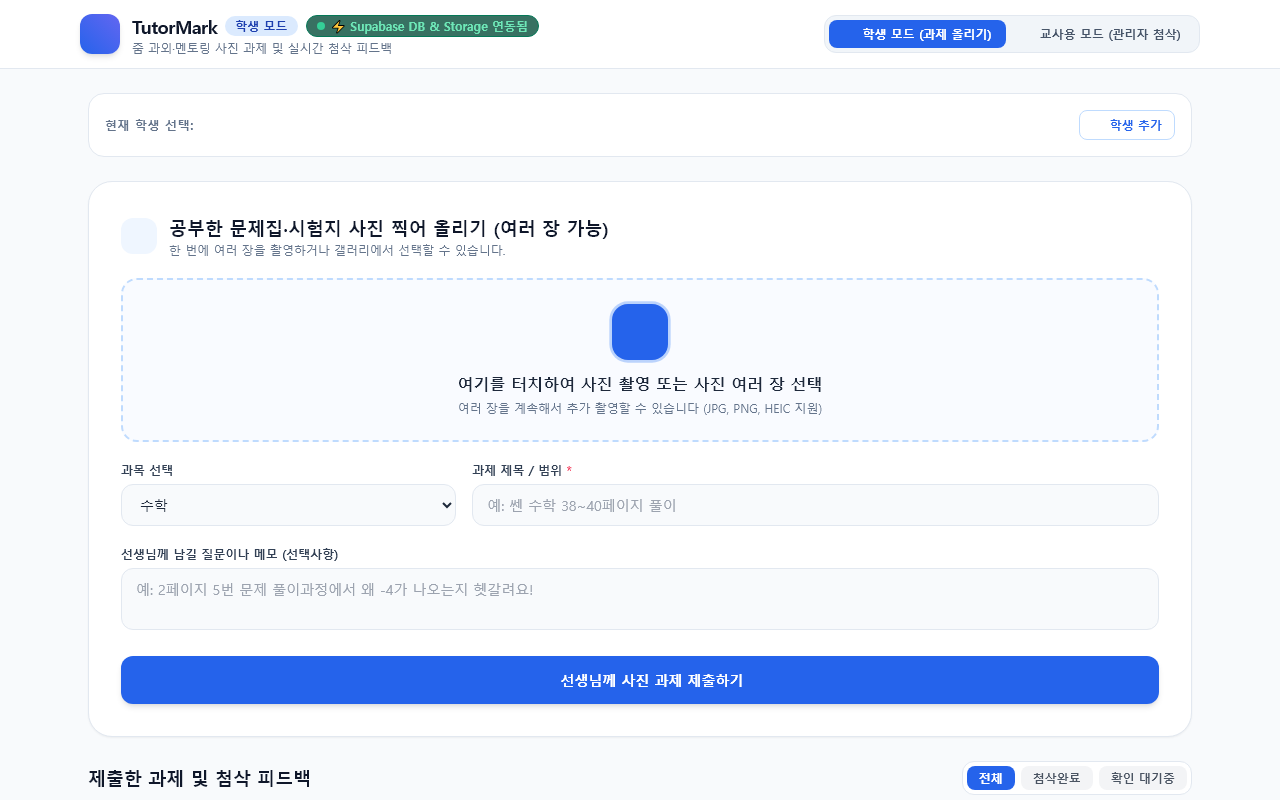
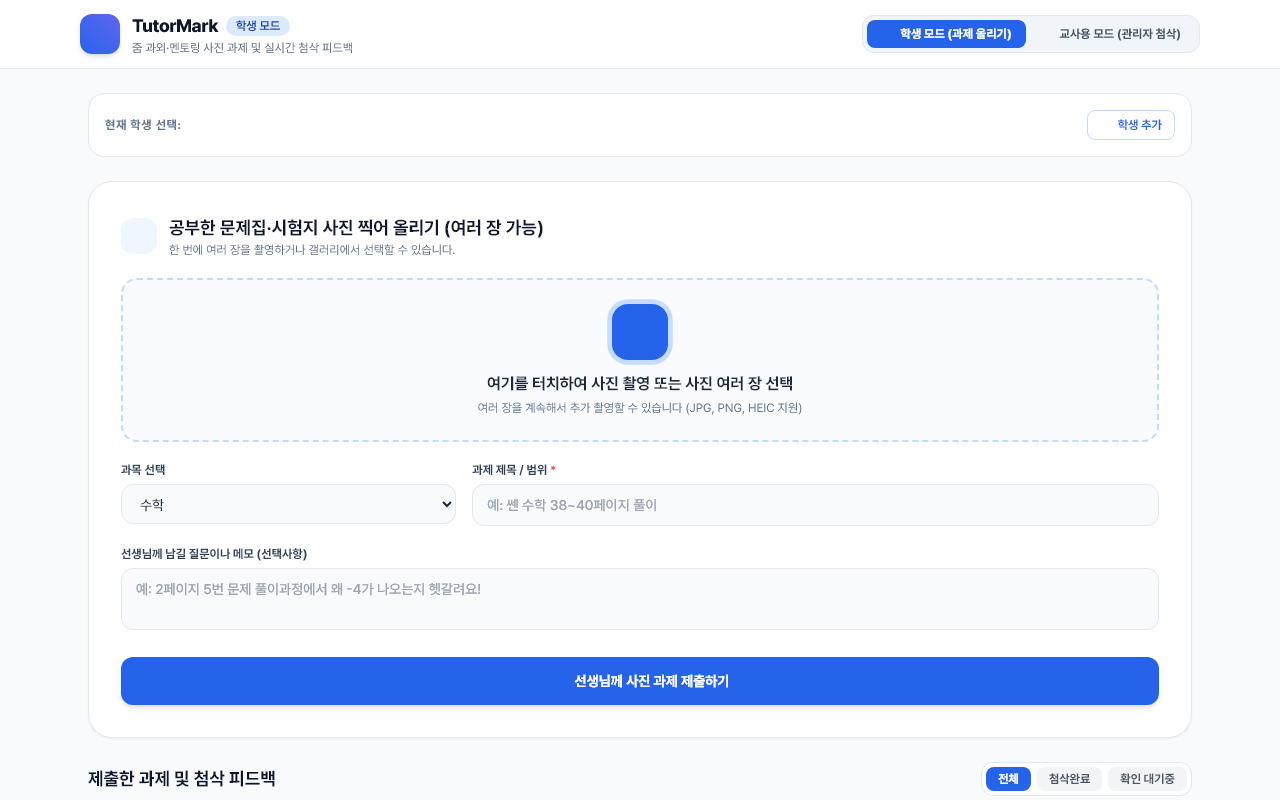
Add files via upload

diff --git a/static/js/app.js b/static/js/app.js
@@ -134,18 +134,35 @@ function renderConnectionBadge() {
   const badge = document.getElementById('supabase-status-badge');
   if (!badge) return;
 
-  if (state.systemStatus && state.systemStatus.supabase_enabled) {
-    badge.innerHTML = `<span class="w-2 h-2 rounded-full bg-emerald-400 animate-pulse"></span> ⚡ Supabase DB & Storage 연동됨`;
-    badge.className = 'px-2.5 py-0.5 text-xs font-semibold rounded-full bg-emerald-900/80 text-emerald-300 border border-emerald-700 flex items-center gap-1.5 cursor-pointer hover:bg-emerald-800 transition';
-    badge.title = `Supabase URL: ${state.systemStatus.supabase_url}
+  const isSupabase = Boolean(state.systemStatus && state.systemStatus.supabase_enabled);
+
+  if (state.role === 'teacher') {
+    // 교사용 모드: 클릭 시 설정 모달 오픈 및 상세 주소 툴팁 제공
+    if (isSupabase) {
+      badge.innerHTML = `<span class="w-2 h-2 rounded-full bg-emerald-400 animate-pulse"></span> ⚡ Supabase 연동됨 (설정)`;
+      badge.className = 'px-2.5 py-0.5 text-xs font-semibold rounded-full bg-emerald-900/80 text-emerald-300 border border-emerald-700 flex items-center gap-1.5 cursor-pointer hover:bg-emerald-800 transition shadow-xs';
+      badge.title = `Supabase URL: ${state.systemStatus.supabase_url}
 Bucket: ${state.systemStatus.supabase_bucket}
-클릭하여 설정을 변경할 수 있습니다.`;
+클릭하여 연동 설정을 변경하거나 해제할 수 있습니다.`;
+    } else {
+      badge.innerHTML = `<span class="w-2 h-2 rounded-full bg-amber-400"></span> 💾 로컬 모드 (SQLite 설정)`;
+      badge.className = 'px-2.5 py-0.5 text-xs font-semibold rounded-full bg-amber-900/60 text-amber-300 border border-amber-700 flex items-center gap-1.5 cursor-pointer hover:bg-amber-800 transition shadow-xs';
+      badge.title = '클릭하여 Supabase 연동 키를 입력하고 활성화하세요.';
+    }
+    badge.onclick = () => openSupabaseGuideModal();
   } else {
-    badge.innerHTML = `<span class="w-2 h-2 rounded-full bg-amber-400"></span> 💾 로컬 모드 (SQLite)`;
-    badge.className = 'px-2.5 py-0.5 text-xs font-semibold rounded-full bg-amber-900/60 text-amber-300 border border-amber-700 flex items-center gap-1.5 cursor-pointer hover:bg-amber-800 transition';
-    badge.title = '클릭하여 Supabase 연동 키를 입력하고 활성화하세요.';
+    // 학생 모드: 민감한 URL/API Key 노출 없이 안전한 읽기 전용 상태 뱃지만 표시
+    if (isSupabase) {
+      badge.innerHTML = `<span class="w-2 h-2 rounded-full bg-emerald-500"></span> ⚡ 클라우드 연동됨`;
+      badge.className = 'px-2.5 py-0.5 text-xs font-semibold rounded-full bg-emerald-50 text-emerald-700 border border-emerald-200 flex items-center gap-1.5 cursor-default select-none';
+      badge.title = '온라인 클라우드 서버에 안전하게 연결되어 있습니다.';
+    } else {
+      badge.innerHTML = `<span class="w-2 h-2 rounded-full bg-amber-500"></span> 💾 로컬 서버 연결됨`;
+      badge.className = 'px-2.5 py-0.5 text-xs font-semibold rounded-full bg-amber-50 text-amber-700 border border-amber-200 flex items-center gap-1.5 cursor-default select-none';
+      badge.title = '로컬 과외 서버에 연결되어 있습니다.';
+    }
+    badge.onclick = null;
   }
-  badge.onclick = () => openSupabaseGuideModal();
 }
 
 /** A cold Supabase connection can take several seconds - don't leave the page blank. */
@@ -307,6 +324,7 @@ function switchRole(role) {
     roleBadge.innerText = '학생 모드';
     roleBadge.className = 'px-2.5 py-0.5 text-xs font-semibold rounded-full bg-blue-100 text-blue-800';
 
+    renderConnectionBadge();
     loadSubmissions();
   } else {
     teacherBtn.classList.add('bg-purple-600', 'text-white', 'shadow-md');
@@ -319,6 +337,7 @@ function switchRole(role) {
     roleBadge.innerText = '교사/관리자 모드';
     roleBadge.className = 'px-2.5 py-0.5 text-xs font-semibold rounded-full bg-purple-100 text-purple-800';
 
+    renderConnectionBadge();
     loadStats();
     loadSubmissions();
   }
@@ -795,6 +814,65 @@ function removeSelectedPhoto(index) {
   renderPhotoThumbnails();
 }
 
+// Must stay in step with optimize_image_bytes() in app.py
+const UPLOAD_MAX_DIMENSION = 2000;   // 긴 변 기준
+const UPLOAD_WEBP_QUALITY = 0.70;
+
+/**
+ * Downscales a photo to 2000px on its longest side and re-encodes it as WebP.
+ * Returns null when the browser cannot decode the file (HEIC outside Safari) or
+ * when the result would be no smaller, so the caller can upload the original.
+ */
+async function optimizePhotoForUpload(file) {
+  let bitmap = null;
+  try {
+    // 'from-image' applies the EXIF rotation, matching ImageOps.exif_transpose() on the server
+    bitmap = await createImageBitmap(file, { imageOrientation: 'from-image' });
+  } catch (err) {
+    try {
+      bitmap = await createImageBitmap(file);
+    } catch (err2) {
+      console.warn('브라우저가 이 사진을 디코딩하지 못했습니다. 원본으로 업로드합니다:', file.name);
+      return null;
+    }
+  }
+
+  try {
+    const scale = Math.min(1, UPLOAD_MAX_DIMENSION / Math.max(bitmap.width, bitmap.height));
+    const w = Math.max(1, Math.round(bitmap.width * scale));
+    const h = Math.max(1, Math.round(bitmap.height * scale));
+
+    const canvas = document.createElement('canvas');
+    canvas.width = w;
+    canvas.height = h;
+    const ctx = canvas.getContext('2d');
+    ctx.imageSmoothingEnabled = true;
+    ctx.imageSmoothingQuality = 'high';
+    ctx.drawImage(bitmap, 0, 0, w, h);
+
+    const blob = await new Promise(resolve =>
+      canvas.toBlob(resolve, 'image/webp', UPLOAD_WEBP_QUALITY));
+
+    // An engine without WebP encoding silently hands back a PNG, which is bigger
+    if (!blob || blob.type !== 'image/webp') return null;
+    if (blob.size >= file.size && scale === 1) return null;
+    return blob;
+  } finally {
+    if (bitmap.close) bitmap.close();
+  }
+}
+
+/** Picks a safe file extension for a stored image. */
+function extensionForMime(mime, fallbackName) {
+  if (mime === 'image/webp') return 'webp';
+  if (mime === 'image/png') return 'png';
+  if (mime === 'image/jpeg') return 'jpg';
+  const dot = (fallbackName || '').lastIndexOf('.');
+  const raw = dot > -1 ? fallbackName.slice(dot + 1).toLowerCase() : '';
+  const clean = raw.replace(/[^a-z0-9]/g, '');
+  return clean || 'jpg';
+}
+
 function base64ToBlob(dataUrl) {
   const arr = dataUrl.split(',');
   const mime = arr[0].match(/:(.*?);/)[1];
@@ -878,12 +956,18 @@ async function handleSubmissionSubmit(e) {
 
       for (let i = 0; i < state.selectedPhotoFiles.length; i++) {
         const file = state.selectedPhotoFiles[i];
-        const ext = file.name.split('.').pop() || 'jpg';
+
+        submitBtn.innerHTML = `<span class="inline-block animate-spin mr-2">⏳</span> 사진 최적화 중... (${i + 1}/${state.selectedPhotoFiles.length})`;
+        const optimized = await optimizePhotoForUpload(file);
+
+        const payload = optimized || file;
+        const contentType = optimized ? 'image/webp' : (file.type || 'image/jpeg');
+        const ext = extensionForMime(contentType, file.name);
         const filename = `sub_${Date.now()}_${Math.random().toString(36).substring(2, 7)}_p${i + 1}.${ext}`;
 
         const { data: uploadData, error: uploadErr } = await state.supabaseClient.storage
           .from(bucket)
-          .upload(filename, file, { contentType: file.type || 'image/jpeg', upsert: true });
+          .upload(filename, payload, { contentType: contentType, upsert: true });
 
         if (uploadErr) throw new Error('사진 저장 실패: ' + uploadErr.message);
 
@@ -1299,11 +1383,14 @@ async function handleSaveFeedback() {
     if (state.supabaseClient) {
       const bucket = state.systemStatus?.supabase_bucket || window.SUPABASE_CONFIG?.bucket || 'tutormark-files';
       const blob = base64ToBlob(exported.dataUrl);
-      const filename = `fb_${state.activeAnnotatingSubmission.id}_p${state.activePageIndex + 1}_${Date.now()}.jpg`;
+      // Take the type from the blob itself: the canvas falls back to PNG where WebP encoding is missing
+      const contentType = blob.type || 'image/webp';
+      const ext = extensionForMime(contentType, '');
+      const filename = `fb_${state.activeAnnotatingSubmission.id}_p${state.activePageIndex + 1}_${Date.now()}.${ext}`;
 
       const { data: uploadData, error: uploadErr } = await state.supabaseClient.storage
         .from(bucket)
-        .upload(filename, blob, { contentType: 'image/jpeg', upsert: true });
+        .upload(filename, blob, { contentType: contentType, upsert: true });
 
       if (uploadErr) throw new Error('첨삭본 이미지 저장 실패: ' + uploadErr.message);
 
@@ -1730,6 +1817,11 @@ async function promptAddStudent() {
 
 // --- Supabase Connection Manager Modal ---
 function openSupabaseGuideModal() {
+  if (state.role !== 'teacher') {
+    showToast('Supabase 연동 설정은 교사/관리자 모드에서만 접근할 수 있습니다.', 'warning');
+    return;
+  }
+
   const modal = document.getElementById('supabase-guide-modal');
   if (!modal) return;
 

diff --git a/static/js/config.js b/static/js/config.js
@@ -8,7 +8,7 @@
 //       모든 과제/첨삭을 읽고 쓰고 지울 수 있습니다. 공개 배포 시에는 RLS를 반드시 강화하세요.
 //     - 백엔드(app.py)를 함께 띄우는 경우, 서버가 응답하면 이 값은 무시되고 서버 설정이 우선합니다.
 window.SUPABASE_CONFIG = {
-  url: "https://fihybhvjtzqatddaupej.supabase.co",
-  anonKey: "eyJhbGciOiJIUzI1NiIsInR5cCI6IkpXVCJ9.eyJpc3MiOiJzdXBhYmFzZSIsInJlZiI6ImZpaHliaHZqdHpxYXRkZGF1cGVqIiwicm9sZSI6ImFub24iLCJpYXQiOjE3ODc1NzAwODYsImV4cCI6MjEwMzE0NjA4Nn0.asrtgx3ryN0IQcPLo4ucWd_6TvuO1vGTrZ-ddjEHGwI",
+  url: "https://vevugqqlhzvzgicptugi.supabase.co",
+  anonKey: "eyJhbGciOiJIUzI1NiIsInR5cCI6IkpXVCJ9.eyJpc3MiOiJzdXBhYmFzZSIsInJlZiI6InZldnVncXFsaHp2emdpY3B0dWdpIiwicm9sZSI6ImFub24iLCJpYXQiOjE3ODc2MTc0MDQsImV4cCI6MjEwMzE5MzQwNH0.9zMxHQCgeL43Wsr5913ENpLMGLcr33yJTpa3iE97jaE",
   bucket: "tutormark-files"
 };

diff --git a/index.html b/index.html
@@ -34,8 +34,8 @@
             <span id="current-role-badge" class="px-2.5 py-0.5 text-xs font-semibold rounded-full bg-blue-100 text-blue-800">
               학생 모드
             </span>
-            <!-- Supabase Status Badge -->
-            <div id="supabase-status-badge" class="px-2.5 py-0.5 text-xs font-semibold rounded-full bg-slate-100 text-slate-600 border border-slate-200 flex items-center gap-1.5 cursor-pointer">
+            <!-- Supabase Status Badge (학생: 읽기 전용 상태 / 교사: 설정 변경 가능) -->
+            <div id="supabase-status-badge" class="px-2.5 py-0.5 text-xs font-semibold rounded-full bg-slate-100 text-slate-600 border border-slate-200 flex items-center gap-1.5 cursor-default">
               <span>연결 확인 중...</span>
             </div>
           </div>

diff --git a/static/index.html b/static/index.html
@@ -34,8 +34,8 @@
             <span id="current-role-badge" class="px-2.5 py-0.5 text-xs font-semibold rounded-full bg-blue-100 text-blue-800">
               학생 모드
             </span>
-            <!-- Supabase Status Badge -->
-            <div id="supabase-status-badge" class="px-2.5 py-0.5 text-xs font-semibold rounded-full bg-slate-100 text-slate-600 border border-slate-200 flex items-center gap-1.5 cursor-pointer">
+            <!-- Supabase Status Badge (학생: 읽기 전용 상태 / 교사: 설정 변경 가능) -->
+            <div id="supabase-status-badge" class="px-2.5 py-0.5 text-xs font-semibold rounded-full bg-slate-100 text-slate-600 border border-slate-200 flex items-center gap-1.5 cursor-default">
               <span>연결 확인 중...</span>
             </div>
           </div>

diff --git a/test_supabase_conn.py b/test_supabase_conn.py
@@ -28,12 +28,9 @@ except Exception as e:
 
 # 3. Test storage bucket
 try:
-    buckets = client.storage.list_buckets()
-    bucket_names = [b.name for b in buckets]
-    print(f"Existing storage buckets: {bucket_names}")
-    if SUPABASE_BUCKET in bucket_names:
-        print(f"[OK] Storage bucket '{SUPABASE_BUCKET}' is ready!")
-    else:
-        print(f"[NOTICE] Bucket '{SUPABASE_BUCKET}' not found in: {bucket_names}")
+    test_file_name = "__conn_test__.txt"
+    client.storage.from_(SUPABASE_BUCKET).upload(test_file_name, b"test_ok", {"content-type": "text/plain", "upsert": "true"})
+    client.storage.from_(SUPABASE_BUCKET).remove([test_file_name])
+    print(f"[OK] Storage bucket '{SUPABASE_BUCKET}' read/write is working perfectly!")
 except Exception as e:
     print(f"[NOTICE] Storage bucket check: {e}")
